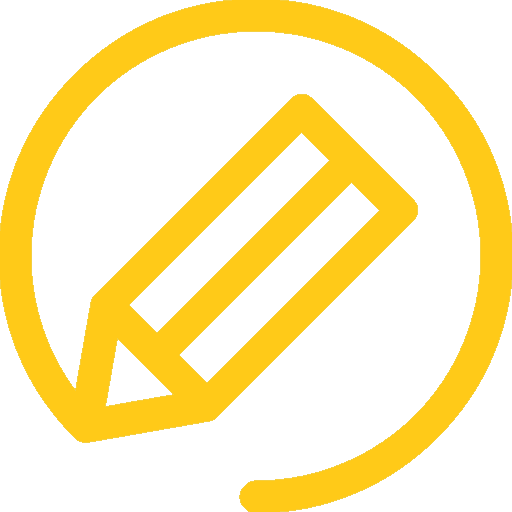
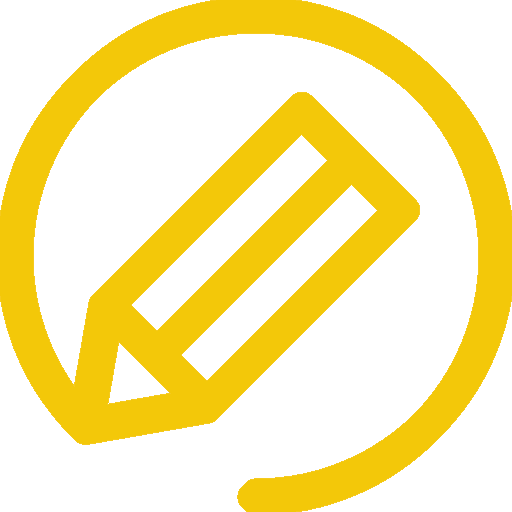
styling and comparer upgrade

diff --git a/src/App.js b/src/App.js
@@ -5,7 +5,8 @@ import NamesComparerMS from './NamesComparerMS';
 import Names from './Names';
 import Results from './Results';
 import babyboy from './img/baby-boy.png';
-import create from './img/create.png';
+import create from './img/create2.png';
+import sword from './img/sword.png';
 
 function App() {
 
@@ -29,30 +30,36 @@ function App() {
       <header className='Header'>
         <h1>Choose together</h1>
         <p>Choose a name for your baby without a fight</p>
-        <img className='Baby' src={babyboy}/>
+        <img className='Baby' src={babyboy} />
       </header>
       <section className='Names-pool'>
-        <img src={create} className='CreateIcon'/>
-        <h2>1. Create pool of names</h2>
-        <p>Together with your partner, create a list of names from which you want to choose. Each of you can enter your name suggestions here. To remove a name from the pool just click on it.</p>
-        <Names names={namesPool} setNames={setNamesPool} />
-        <p>Cross out dealbreakers. Great! Your pool of names is almost ready. Now each of you can look at it again and cross out few names (can be zero) you are 100% sure you won't name your child. </p>
+        <container className='ContentBox'>
+          <img src={create} className='CreateIcon' />
+          <h2>1. Create pool of names</h2>
+          <p>Together with your partner, create a list of names from which you want to choose. Each of you can enter your name suggestions here. To remove a name from the pool just click on it.</p>
+          <Names names={namesPool} setNames={setNamesPool} />
+          <p>Cross out dealbreakers. Great! Your pool of names is almost ready. Now each of you can look at it again and cross out few names (can be zero) you are 100% sure you won't name your child. </p>
+        </container>
       </section>
       <section className='Comparison'>
-        <h2>2. Duels of names</h2>
-        <p> Complete a series of name compraisons to determine your preference ranking. In this part of the proces you will individually choose which name from the dispalyed pair you'd prefer to give to your child. </p>
-        <p>First, person A performs a series of comparisons in the window below. Then person B performs their own series of comparisons in the second window.</p>
+        <container className='ContentBox'>
+          <img src={sword} className='CompareIcon' />
+          <h2>2. Duels of names</h2>
+          <p> Complete a series of name compraisons to determine your preference ranking. In this part of the proces you will individually choose which name from the dispalyed pair you'd prefer to give to your child. </p>
+          <p>First, person A performs a series of comparisons in the window below. Then person B performs their own series of comparisons in the second window.</p>
 
-        <div className='CompareWindow'>
-          <h3>Person A</h3>
-          <NamesComparerMS namesPool={namesPool} setRanking={setRanking} />
-          <p>Click on the name that you would prefer to give to your child.</p>
-        </div>
-        <div className='CompareWindow'>
-          <h3>Person B</h3>
-          <NamesComparerMS namesPool={namesPool} setRanking={setRanking} />
-          <p>Click on the name that you would prefer to give to your child.</p>
-        </div>
+
+          <div className='CompareWindow'>
+            <h3>Person A</h3>
+            <NamesComparerMS namesPool={namesPool} setRanking={setRanking} />
+            <p>Click on the name that you would prefer to give to your child.</p>
+          </div>
+          <div className='CompareWindow'>
+            <h3>Person B</h3>
+            <NamesComparerMS namesPool={namesPool} setRanking={setRanking} />
+            <p>Click on the name that you would prefer to give to your child.</p>
+          </div>
+        </container>
       </section>
       <section className='ResultsSection'>
         <h2>3. See your top names</h2>

diff --git a/src/NamesComparerMS.js b/src/NamesComparerMS.js
@@ -1,7 +1,7 @@
 import { useState, useEffect } from 'react';
 import './NamesComparerMS.css';
 
-import swords from "./img/swords.png";
+import swordB from "./img/sword_blue.png";
 
 
 // oszczędność algorytmu fajnie widać na 3 elementach
@@ -37,14 +37,16 @@ function NamesComparerMS(props) {
     else if (namesArray.length === 0) { return }
     //for the end of comparison
     else {
-      setCurrentNames(['Perfect, you did it!', 'Continue with the second person or see the results below.']);
+      setCurrentNames(['Perfect, you did it! Continue with the second person or see the results below.', '']);
 
       props.setRanking(
-        (r)=> {r.push(namesArray);
-        return r}
-        );
+        (r) => {
+          r.push(namesArray);
+          return r
+        }
+      );
     }
-  } , [temp]);
+  }, [temp]);
 
 
   const initializeComparison = () => {
@@ -161,8 +163,10 @@ function NamesComparerMS(props) {
   return (
     <div className="NamesComparer">
       <button className='NameButton' onClick={() => stepByStepMergeSort(currentNames[0])}>{currentNames[0]}</button>
-      <img src={swords} className='Swords' />
-      <button className='NameButton' onClick={() => stepByStepMergeSort(currentNames[1])}>{currentNames[1]}</button>
+      {currentNames[1] &&
+        <img src={swordB} className='Swords' />}
+      {currentNames[1] &&
+        <button className='NameButton' onClick={() => stepByStepMergeSort(currentNames[1])}>{currentNames[1]}</button>}
     </div>
   );
 }

diff --git a/src/App.css b/src/App.css
@@ -4,16 +4,22 @@
 }
 
 .App section {
-  width: 70%;
   margin: auto;
-  margin-top: 100px;
+  padding-top: 100px;
+  padding-bottom: 40px;
+}
+
+.App .ContentBox {
+  width: 70%;
+  display: inline-block;
 }
 
 .App h2 {
   margin-top: 40px;
-  color: rgba(0, 0, 139, 0.678);
+  color: #F3C809;
   text-transform: uppercase;
-  font-weight: 400;
+  font-weight: 700;
+  /* font-size: 25px; */
 }
 
 .App h3 {
@@ -29,8 +35,14 @@
   margin-top: 100px;
 }
 
+.App .CompareWindow h3 {
+  color:white;
+  text-align: center;
+  text-transform: uppercase;
+}
+
 .App .Header {
-  background-color: rgb(115, 204, 255);
+  background-color: #375BF8;
   color: white;
   font-family: 'Nunito Sans', sans-serif;
   font-size: 30px;
@@ -54,27 +66,45 @@
 }
 
 .App .Header .Baby {
-  position:absolute;
+  position: absolute;
   top: 15px;
   right: 30px;
   width: 150px;
 }
 
 .App .Footer {
-  background-color: rgb(115, 204, 255);
+  background-color: #375BF8;
   color: white;
   height: 60px;
 }
 
 .App .Names-pool .CreateIcon {
   height: 100px;
-  opacity: 0.6;
+  opacity: 0.8;
+}
+
+/* SECTION 2. DUELS OF NAMES */
+
+.App .Comparison {
+  background-color: #375BF8;
+  color: white;
+}
+
+.App .Comparison .ContentBox h2 {
+  color: white;
+}
+
+.App .Comparison .ContentBox p {
+  color: white;
+}
+
+.App .Comparison .ContentBox .CompareIcon {
+  height: 100px;
 }
 
 
-
 @media (min-width:992px) {
-  .App section {
+  .App .ContentBox {
     max-width: 900px;
   }
 }

diff --git a/src/NamesComparerMS.css b/src/NamesComparerMS.css
@@ -1,12 +1,13 @@
 .NamesComparer {
     height: 200px;
-    border: 30px solid rgba(0, 0, 139, 0.678);
+    /* border: 5px solid #0934F3; */
     border-radius: 10px;
     margin: auto;
     margin-top: 30px;
     display: flex;
     justify-content: space-around;
     align-items: center;
+    background-color: white;
 }
 
 .NamesComparer .NameButton {
@@ -14,16 +15,23 @@
     font-size: 20px;
     padding: 15px 30px;
     font-weight: 400;
-    border: 1px solid black;
+    border: none;
+    /* border: 2px solid #73CCFF; */
     border-radius: 10px;
-    background-color: white;
+    background-color: #F309A9;
+    color: white;
+    font-family: 'Nunito Sans', sans-serif;
+    font-weight: 700;
+    flex-basis: 30%;
+    max-width: 400px;
+    box-shadow: 10px 10px rgba(0,0,0,0.2);;
 }
 
 .NamesComparer .NameButton:hover {
-    background-color: rgb(205, 255, 192);
+    background-color: #09F353;
 }
 
 .NamesComparer .Swords {
     opacity: 0.7;
-    height: 18px
+    height: 20px
 }

diff --git a/src/NamesList.css b/src/NamesList.css
@@ -3,21 +3,26 @@ ul {
     padding-left: 0;
     display: flex;
     flex-wrap: wrap;
-    border: 1px solid #000000;
-    border-radius: 10px;
+    border: 2px solid #F3C809;
+    border-radius: 20px;
     min-height: 50px;
     padding-top: 20px;
 
 }
 
 ul li {
-    background-color: rgba(255, 255, 255, 0.5);
+    background-color: #375BF8;
+    color: white;
+    font-family: 'Nunito Sans', sans-serif;
+    font-weight: 500;
     padding: 8px 16px;
     margin: 0px 10px;
     margin-bottom: 20px;
-    border-radius: 5px;
-    border: 1px solid rgba(0, 0, 0, 0.5);
+    border-radius: 10px;
+    /* border-style: double; */
     font-size: 0.9em;
+    letter-spacing: 1px;
+    box-shadow: 5px 5px rgba(0,0,0,0.2);
 }
 
 ul li:hover {
@@ -25,3 +30,5 @@ ul li:hover {
     background-color: pink;
     cursor: pointer
 }
+
+/* żółty #f3c809 */

diff --git a/src/Names.css b/src/Names.css
@@ -4,13 +4,16 @@
     height: 20px;
     padding: 10px;
     font-size: 1em;
+    border: 1px solid #F3C809;
+    border-radius: 5px;
+    font-family: 'Nunito Sans', sans-serif;
     
 }
 
 .names button {
     margin-left: 10px;
     height: 40px;
-    background-color: #f3c809;
+    background-color: #F3C809;
     color: white;
     border: none;
     border-radius: 5px;
@@ -19,10 +22,11 @@
     font-family: 'Nunito Sans', sans-serif;
     font-weight: 700;
     text-transform: uppercase;
+    font-size: 16px;
     
 }
 
 .names button:hover {
-    background-color: #f3c80994;
+    opacity: 0.6;
 
 }
